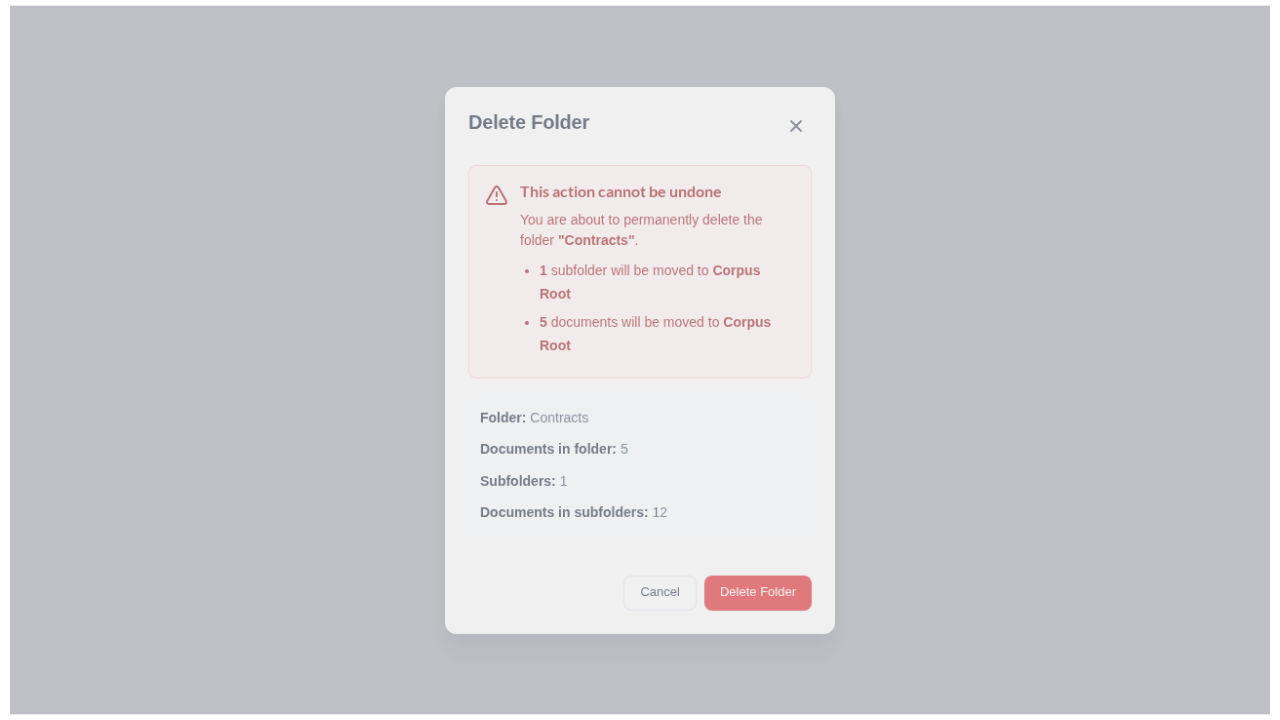
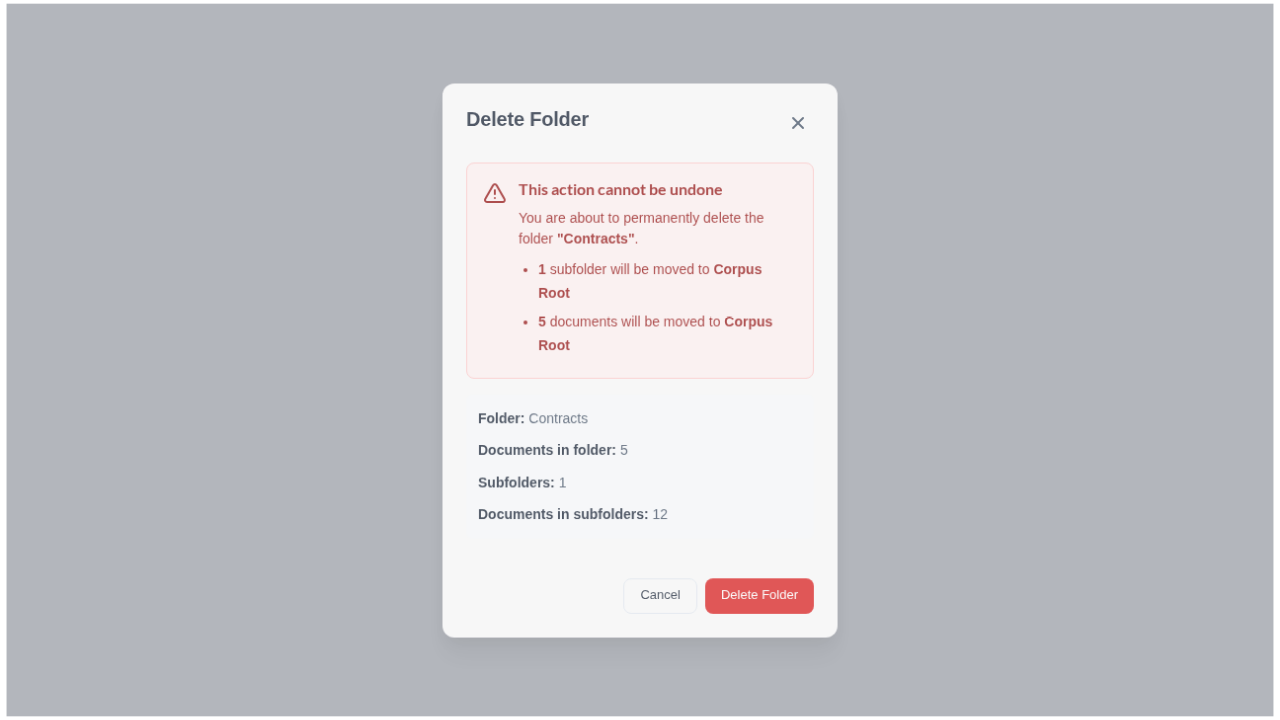
Address PR review: use variant=danger, fix RadialButtonCloud z-index, fix Chip mock spreading
- Replace variant=primary/secondary + inline red styles with variant=danger
  in DeleteFolderModal, TrashFolderView, ApprovalModal, ApprovalOverlay
- Replace GlobalStyle .oc-modal[style] hack with scoped styled(Modal) in
  RadialButtonCloud
- Add TODO comment to CreateExtractModal for incomplete modal migration
- Fix Chip mock in test files to not spread unknown props onto DOM span
- Add RadialButtonCloud component test with 4 tests and 3 screenshots

diff --git a/frontend/tests/RadialButtonCloud.ct.tsx b/frontend/tests/RadialButtonCloud.ct.tsx
@@ -1,0 +1,144 @@
+// Playwright Component Test for RadialButtonCloud
+// Tests the pulsing dot, radial button expansion, and confirmation modal.
+import React from "react";
+import { test, expect } from "@playwright/experimental-ct-react";
+import type { CloudButtonItem } from "../src/components/widgets/buttons/RadialButtonCloud";
+import { RadialButtonCloudWrapper } from "./utils/RadialButtonCloudWrapper";
+import { docScreenshot } from "./utils/docScreenshot";
+
+const sampleActions: CloudButtonItem[] = [
+  {
+    name: "trash",
+    color: "#e74c3c",
+    tooltip: "Delete",
+    onClick: () => {},
+  },
+  {
+    name: "edit",
+    color: "#3498db",
+    tooltip: "Edit",
+    onClick: () => {},
+  },
+  {
+    name: "copy",
+    color: "#2ecc71",
+    tooltip: "Copy",
+    onClick: () => {},
+  },
+];
+
+const protectedActions: CloudButtonItem[] = [
+  {
+    name: "trash",
+    color: "#e74c3c",
+    tooltip: "Delete",
+    protected_message: "Are you sure you want to delete this item?",
+    onClick: () => {},
+  },
+  {
+    name: "edit",
+    color: "#3498db",
+    tooltip: "Edit",
+    onClick: () => {},
+  },
+];
+
+test.describe("RadialButtonCloud", () => {
+  test("renders pulsing dot in collapsed state", async ({ mount, page }) => {
+    const component = await mount(
+      <RadialButtonCloudWrapper actions={sampleActions} />
+    );
+
+    // The pulsing dot should be visible
+    const dot = page.locator(".pulsing-dot");
+    await expect(dot).toBeVisible();
+
+    await docScreenshot(page, "widgets--radial-button-cloud--collapsed");
+
+    await component.unmount();
+  });
+
+  test("expands cloud on hover showing action buttons", async ({
+    mount,
+    page,
+  }) => {
+    const component = await mount(
+      <RadialButtonCloudWrapper actions={sampleActions} />
+    );
+
+    // Hover over the pulsing dot to expand the cloud
+    const dot = page.locator(".pulsing-dot");
+    await dot.hover();
+
+    // Wait for the cloud buttons to appear
+    await page.waitForTimeout(500);
+
+    // Action buttons should now be visible (one for each action)
+    const buttons = page.locator("button[title]");
+    await expect(buttons).toHaveCount(3);
+
+    await docScreenshot(page, "widgets--radial-button-cloud--expanded");
+
+    await component.unmount();
+  });
+
+  test("shows confirmation modal for protected actions", async ({
+    mount,
+    page,
+  }) => {
+    const component = await mount(
+      <RadialButtonCloudWrapper actions={protectedActions} />
+    );
+
+    // Hover to expand
+    const dot = page.locator(".pulsing-dot");
+    await dot.hover();
+    await page.waitForTimeout(500);
+
+    // Click the protected action (trash button)
+    const deleteButton = page.locator('button[title="Delete"]');
+    await expect(deleteButton).toBeVisible();
+    await deleteButton.click();
+
+    // Confirmation modal should appear
+    const modal = page.locator('[role="dialog"]');
+    await expect(modal).toBeVisible();
+    await expect(
+      page.getByText("Are you sure you want to delete this item?")
+    ).toBeVisible();
+
+    // Should have Yes/No buttons
+    await expect(page.getByRole("button", { name: "Yes" })).toBeVisible();
+    await expect(page.getByRole("button", { name: "No" })).toBeVisible();
+
+    await docScreenshot(
+      page,
+      "widgets--radial-button-cloud--confirmation-modal"
+    );
+
+    await component.unmount();
+  });
+
+  test("dismisses confirmation modal on No click", async ({ mount, page }) => {
+    const component = await mount(
+      <RadialButtonCloudWrapper actions={protectedActions} />
+    );
+
+    // Expand and click protected action
+    const dot = page.locator(".pulsing-dot");
+    await dot.hover();
+    await page.waitForTimeout(500);
+    await page.locator('button[title="Delete"]').click();
+
+    // Wait for modal
+    await expect(page.locator('[role="dialog"]')).toBeVisible();
+
+    // Click No
+    await page.getByRole("button", { name: "No" }).click();
+
+    // Modal should close
+    await expect(page.locator('[role="dialog"]')).not.toBeVisible();
+
+    await component.unmount();
+  });
+});

diff --git a/frontend/src/components/widgets/buttons/RadialButtonCloud.tsx b/frontend/src/components/widgets/buttons/RadialButtonCloud.tsx
@@ -1,5 +1,5 @@
 import React, { useState, useRef, useEffect } from "react";
-import styled, { createGlobalStyle, keyframes } from "styled-components";
+import styled, { keyframes } from "styled-components";
 import { Modal, ModalBody, ModalFooter, Button } from "@os-legal/ui";
 import { DynamicIcon } from "../icon-picker/DynamicIcon";
 import { getLuminance } from "polished";
@@ -127,9 +127,9 @@ const CloudButtonStyled = styled.button<CloudButtonStyledProps>`
   }
 `;
 
-const GlobalStyle = createGlobalStyle`
-  .oc-modal[style] {
-    z-index: 20001 !important;
+const HighZModal = styled(Modal)`
+  && {
+    z-index: 20001;
   }
 `;
 
@@ -267,7 +267,6 @@ const RadialButtonCloud: React.FC<RadialButtonCloudProps> = ({
         onMouseEnter={() => setCloudVisible(true)}
         $backgroundColor={dotColor}
       />
-      <GlobalStyle />
       {cloudVisible && (
         <CloudContainer ref={cloudRef}>
           {buttonList.map((btn, index) => (
@@ -287,7 +286,7 @@ const RadialButtonCloud: React.FC<RadialButtonCloudProps> = ({
           ))}
         </CloudContainer>
       )}
-      <Modal
+      <HighZModal
         open={confirmModal.open}
         onClose={() => setConfirmModal({ ...confirmModal, open: false })}
         size="sm"
@@ -315,7 +314,7 @@ const RadialButtonCloud: React.FC<RadialButtonCloudProps> = ({
             Yes
           </Button>
         </ModalFooter>
-      </Modal>
+      </HighZModal>
     </div>
   );
 };

diff --git a/frontend/src/components/corpuses/corpus_chat/ApprovalModal.tsx b/frontend/src/components/corpuses/corpus_chat/ApprovalModal.tsx
@@ -138,28 +138,18 @@ export const ApprovalModal: React.FC<ApprovalModalProps> = ({
             }}
           >
             <Button
-              variant="secondary"
+              variant="danger"
               size="md"
               onClick={() => onDecision(false)}
               leftIcon={<X size={16} />}
-              style={{
-                backgroundColor: "#dc2626",
-                color: "white",
-                border: "none",
-              }}
             >
               Reject
             </Button>
             <Button
-              variant="secondary"
+              variant="primary"
               size="md"
               onClick={() => onDecision(true)}
               leftIcon={<CheckCircle size={16} />}
-              style={{
-                backgroundColor: "#059669",
-                color: "white",
-                border: "none",
-              }}
             >
               Approve
             </Button>

diff --git a/frontend/src/components/knowledge_base/document/right_tray/ApprovalOverlay.tsx b/frontend/src/components/knowledge_base/document/right_tray/ApprovalOverlay.tsx
@@ -143,27 +143,17 @@ export const ApprovalOverlay: React.FC<ApprovalOverlayProps> = ({
         >
           <Button
             size="md"
-            variant="secondary"
+            variant="danger"
             leftIcon={<XCircle size={16} />}
             onClick={() => sendApprovalDecision(false)}
-            style={{
-              backgroundColor: "#dc2626",
-              color: "white",
-              border: "none",
-            }}
           >
             Reject
           </Button>
           <Button
             size="md"
-            variant="secondary"
+            variant="primary"
             leftIcon={<CheckCircle size={16} />}
             onClick={() => sendApprovalDecision(true)}
-            style={{
-              backgroundColor: "#059669",
-              color: "white",
-              border: "none",
-            }}
           >
             Approve
           </Button>

diff --git a/frontend/tests/utils/RadialButtonCloudWrapper.tsx b/frontend/tests/utils/RadialButtonCloudWrapper.tsx
@@ -1,0 +1,28 @@
+import React from "react";
+import RadialButtonCloud from "../../src/components/widgets/buttons/RadialButtonCloud";
+import type { CloudButtonItem } from "../../src/components/widgets/buttons/RadialButtonCloud";
+
+interface RadialButtonCloudWrapperProps {
+  actions: CloudButtonItem[];
+  parentBackgroundColor?: string;
+}
+
+export const RadialButtonCloudWrapper: React.FC<
+  RadialButtonCloudWrapperProps
+> = ({ actions, parentBackgroundColor = "#ffffff" }) => (
+  <div
+    style={{
+      display: "flex",
+      alignItems: "center",
+      justifyContent: "center",
+      width: "300px",
+      height: "300px",
+      position: "relative",
+    }}
+  >
+    <RadialButtonCloud
+      parentBackgroundColor={parentBackgroundColor}
+      actions={actions}
+    />
+  </div>
+);

diff --git a/frontend/src/components/corpuses/folders/TrashFolderView.tsx b/frontend/src/components/corpuses/folders/TrashFolderView.tsx
@@ -929,7 +929,7 @@ export const TrashFolderView: React.FC<TrashFolderViewProps> = ({
             Cancel
           </Button>
           <Button
-            variant="primary"
+            variant="danger"
             loading={emptyTrashLoading}
             disabled={emptyTrashLoading}
             onClick={() => {
@@ -938,7 +938,6 @@ export const TrashFolderView: React.FC<TrashFolderViewProps> = ({
               });
             }}
             leftIcon={<Trash2 size={14} />}
-            style={{ backgroundColor: "#dc2626", borderColor: "#dc2626" }}
           >
             Permanently Delete All
           </Button>

diff --git a/frontend/src/components/corpuses/folders/DeleteFolderModal.tsx b/frontend/src/components/corpuses/folders/DeleteFolderModal.tsx
@@ -251,11 +251,10 @@ export const DeleteFolderModal: React.FC = () => {
             Cancel
           </Button>
           <Button
-            variant="primary"
+            variant="danger"
             onClick={handleConfirmDelete}
             loading={loading}
             disabled={loading}
-            style={{ backgroundColor: "#dc2626", borderColor: "#dc2626" }}
           >
             Delete Folder
           </Button>

diff --git a/frontend/src/components/annotations/__tests__/AnnotationsPanel.test.tsx b/frontend/src/components/annotations/__tests__/AnnotationsPanel.test.tsx
@@ -63,16 +63,11 @@ vi.mock("@os-legal/ui", () => ({
   ),
   Chip: ({
     children,
-    size,
-    ...rest
   }: {
     children: React.ReactNode;
     size?: string;
-  }) => (
-    <span data-testid="chip" {...rest}>
-      {children}
-    </span>
-  ),
+    [key: string]: unknown;
+  }) => <span data-testid="chip">{children}</span>,
 }));
 
 // Mock react-cool-inview to avoid IntersectionObserver issues

diff --git a/frontend/src/components/widgets/modals/CreateExtractModal.tsx b/frontend/src/components/widgets/modals/CreateExtractModal.tsx
@@ -21,7 +21,8 @@ import {
 } from "../../../graphql/mutations";
 import { toast } from "react-toastify";
 
-// Modern styled components with professional design
+// TODO: Migrate to @os-legal/ui Modal when available — currently uses custom
+// ModalOverlay/ModalContainer for framer-motion animation support
 const ModalOverlay = styled.div`
   position: fixed;
   inset: 0;

diff --git a/frontend/src/components/annotations/__tests__/ModernAnnotationCard.test.tsx b/frontend/src/components/annotations/__tests__/ModernAnnotationCard.test.tsx
@@ -16,16 +16,11 @@ vi.mock("@os-legal/ui", () => ({
   ),
   Chip: ({
     children,
-    size,
-    ...rest
   }: {
     children: React.ReactNode;
     size?: string;
-  }) => (
-    <span data-testid="chip" {...rest}>
-      {children}
-    </span>
-  ),
+    [key: string]: unknown;
+  }) => <span data-testid="chip">{children}</span>,
 }));
 
 /**
